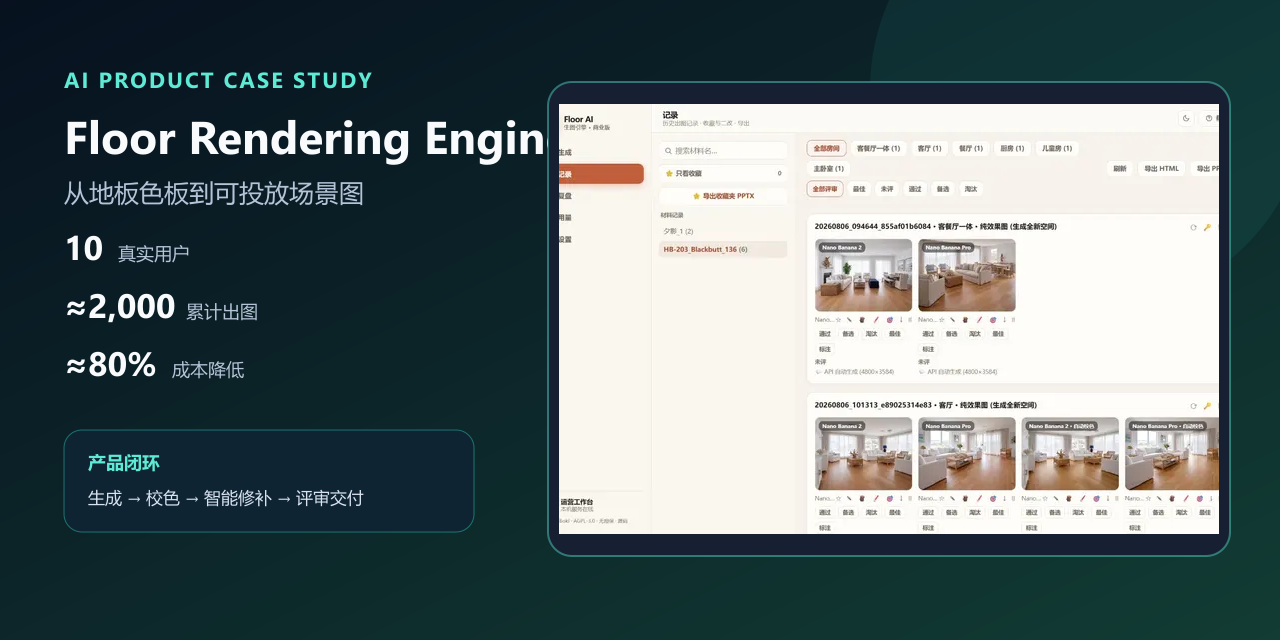
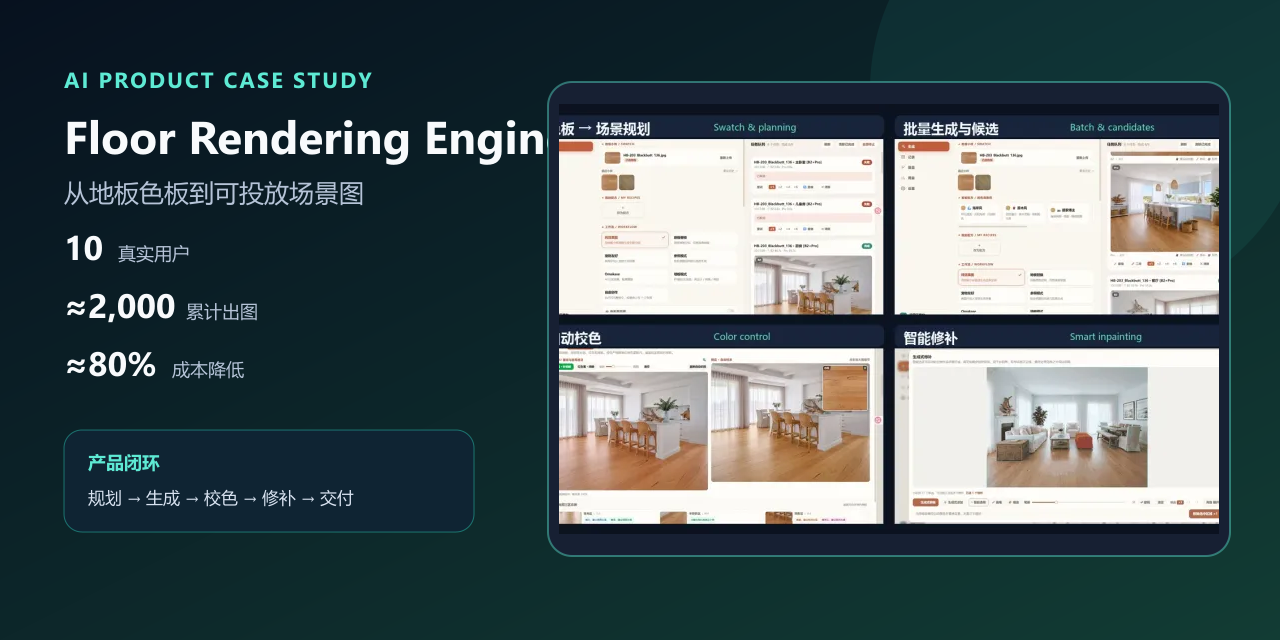
docs: showcase the full product workflow

Changed region(s): [[0.4375, 0.1562, 0.9688, 0.8438], [0.0625, 0.75, 0.2812, 0.8125]]

diff --git a/README.en.md b/README.en.md
@@ -16,7 +16,7 @@
 </div>
 
 <p align="center">
-  <img src="./docs/media/hero-demo.gif" width="960" alt="Floor Rendering Engine product workflow demo">
+  <img src="./docs/media/hero-demo.gif" width="960" alt="Floor Rendering Engine feature tour">
 </p>
 
 > This is a production tool used by a real corporate social media team—not a model API demo. I independently owned the core product design and engineering. Company and customer information shown here is anonymized.
@@ -48,7 +48,9 @@ flowchart LR
     F --> G[Proposal and delivery]
 ```
 
-![Real records view with original outputs, color-matched variants, and candidates](./docs/media/product-overview.webp)
+![Feature tour covering swatch planning, batch generation, color control, and smart inpainting](./docs/media/feature-tour.webp)
+
+The hero demo follows six real product steps: swatch-aware planning, multi-swatch batching, multi-model candidates, AI color matching, smart inpainting, and a brief final review-and-delivery frame. Records now serve as closing-loop evidence rather than the main visual.
 
 ## Core product capabilities
 

diff --git a/开发日志.md b/开发日志.md
@@ -14,6 +14,7 @@
 - 重构中英文 README：按业务结果、用户工作流、核心能力、产品取舍、个人职责、架构证据和快速启动组织；把 AI 智能选区的详细原理下沉到可展开区域。
 - 新增中英文产品案例，完整记录目标用户、旧流程、问题定义、产品策略、关键迭代、指标口径、职责边界、局限和下一步。
 - 使用脱敏后的真实运行数据采集产品概览、校色对比和智能选区交互，制作轻量 WebP/GIF 与 GitHub 社交预览图。
+- 根据首轮展示反馈重做首屏动图：按“色板规划 → 批量生产 → 多模型候选 → 自动校色 → 智能修补 → 评审交付”轮播真实功能，记录页缩短为最后一帧；新增四宫格功能总览，避免首页视觉被单一记录页面占据。
 - 展示真实内部数据：约 10 名用户、近 2,000 张累计出图、约 80% 综合成本降低；Pinterest 约 4% 点赞到下单仅标注为团队月度运营观测，不做系统单一因果归因。
 
 ### 验证口径

diff --git a/README.md b/README.md
@@ -16,7 +16,7 @@
 </div>
 
 <p align="center">
-  <img src="./docs/media/hero-demo.gif" width="960" alt="Floor Rendering Engine product workflow demo">
+  <img src="./docs/media/hero-demo.gif" width="960" alt="Floor Rendering Engine feature tour">
 </p>
 
 > 这是一个真实投入公司社媒生产的产品，而不是只验证模型调用的 Demo。核心系统由我独立完成产品设计与工程实现；公司及客户信息已脱敏。
@@ -48,7 +48,9 @@ flowchart LR
     F --> G[提案与交付]
 ```
 
-![真实记录页：同一任务的原图、校色版本与候选结果](./docs/media/product-overview.webp)
+![功能巡礼：色板与场景规划、批量生成、自动校色和智能修补](./docs/media/feature-tour.webp)
+
+首屏动图按真实操作顺序展示六个环节：色板识别与智能配方、多色板批量生产、多模型候选、AI 自动校色、智能选区修补，以及最后的评审交付。记录页只作为闭环证据，不再占据主要展示时间。
 
 ## 关键产品能力
 
